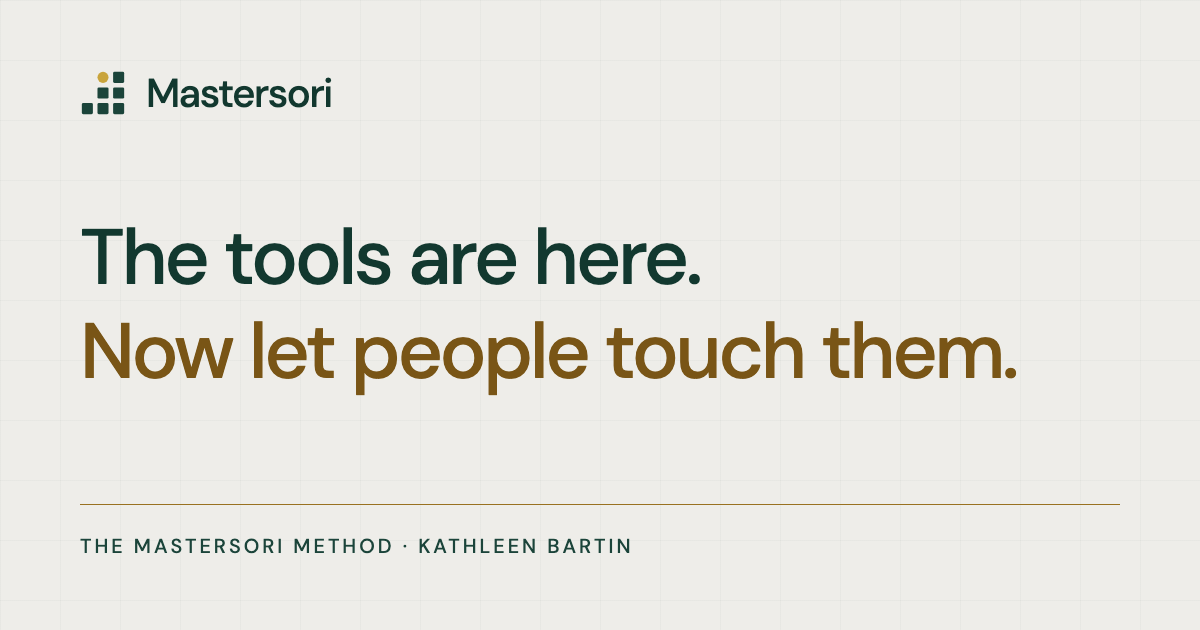
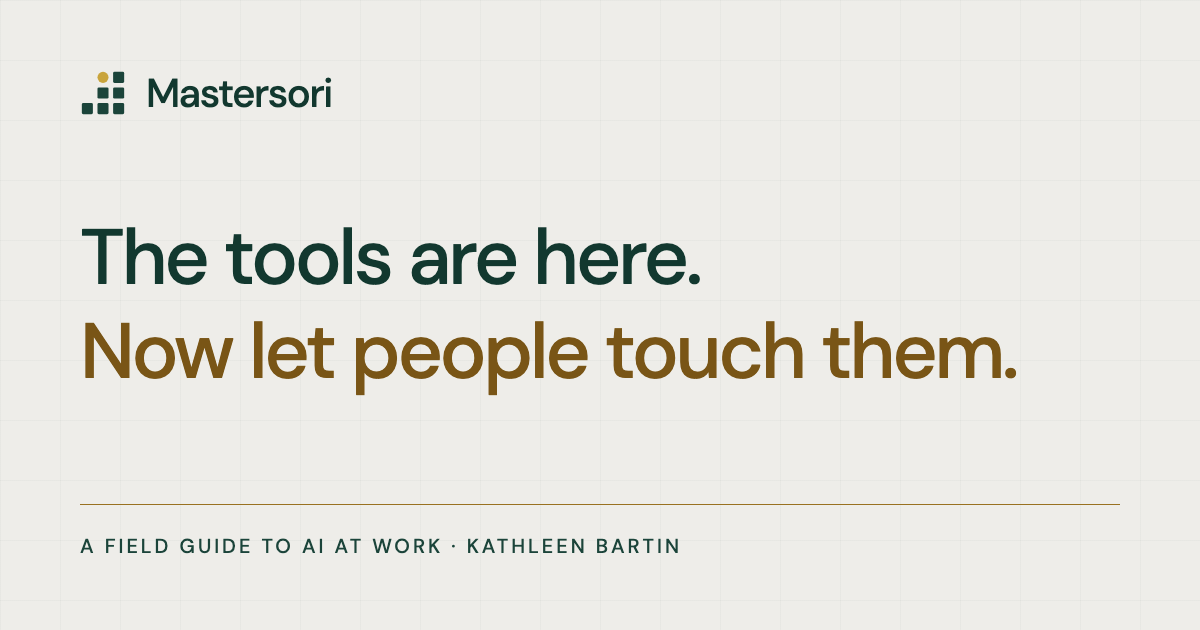
Launch pass B: eyebrow and share card, framework credit, safe first session, the operational no, named-hours rule

Changed region(s): [[0.0617, 0.8444, 0.5858, 0.8746]]

diff --git a/workbench.html b/workbench.html
@@ -79,7 +79,7 @@
 <div class="field"><label for="leadership">Are department heads ready to support the work?</label><select id="leadership"><option value="" selected>Choose an answer</option><option value="yes">Yes, with a shared direction and timeline</option><option value="no">Not yet, or support is mixed</option><option value="unknown">I don’t know</option></select></div>
 <div class="field"><label for="environment">Is the first-session environment ready?</label><select id="environment"><option value="" selected>Choose an answer</option><option value="yes">Yes, approved tools and connections tested</option><option value="no">Not yet, access or setup needs work</option><option value="unknown">I don’t know</option></select></div>
 <button class="outline-button" type="submit">Make my launch map →</button><p class="status form-status" role="status"></p></fieldset></form></div><aside class="result-panel" id="launch-result" aria-live="polite"><p class="eyebrow">A working document, not a grade</p><h3>The first step is<br>not always a class.</h3><p>Use the questions to find the earliest unfinished preparation. Your launch map will name three actions and a piece of evidence to look for.</p><div class="note"><p class="small">No score. No maturity label. No inference about the people on your team.</p></div><p class="small muted panel-foot">The map is assembled from the method using the choices you make. No AI model is called.</p></aside></div></section>
-<section id="panel-survey" role="tabpanel" aria-labelledby="tab-survey" tabindex="0" hidden><script type="application/json" id="survey-document">"# Mastersori: the day-one survey\n\nA proposed working template by Kathleen Bartin, Prodigal Paradigm LLC.\nFirst edition \u00b7 November 2026\n\n## The sponsor's answer\n\nBefore sending this survey, the sponsor completes and includes:\n\n1. What are we measuring, and why?\n\n   ____________________________________________\n\n2. Who will see named responses?\n\n   ____________________________________________\n\n3. Can these figures inform staffing decisions? (The method's position: they should not. Say yours.)\n\n   ____________________________________________\n\n4. When will identifiable responses be deleted?\n\n   ____________________________________________\n\nEstimates can be corrected by the person who gave them.\n\n## Before you send it\n\nUse an organization-approved survey channel. Explain the purpose, whether responses are identifiable, who may see them, and how long they will be retained. Do not collect confidential examples or employee-sensitive information unnecessarily.\n\n## Ten questions\n\n1. Have you used an AI tool for work? If yes, how often?\n\n2. Would you like to use AI in your work? Why or why not?\n\n3. Which AI tools have you tried, at work or elsewhere?\n\n4. What part of your work has AI helped with?\n\n5. Where has AI disappointed you, failed, or made more work?\n\n6. Which recurring task would you change? About how long does one instance take now, including checking, and how often do you do it? An estimate or 'not sure' is fine.\n\n7. What concerns would you want addressed before using AI here?\n\n8. What access, permissions, or support would help you begin?\n\n9. What would make a first AI session genuinely useful to you?\n\n10. If this AI stuff turns out to be the crazy cool thing that actually does make work better, what is that moonshot project?\n\n## The facilitator's note\n\nThe first nine questions take the temperature. The tenth plants a seed. Return to the moonshot after the first hands-on session. Treat pro, resistant, and already-enabled as working observations, not permanent labels for people. Meet department heads separately and compare the two maps.\n\n## Status\n\nThis is a starter template, not a validated assessment or the final wording of a previously administered survey.\n\nSource: https://prodigalparadigm.github.io/mastersori/workbench.html\n"</script><div class="tool-grid"><div><h2>The survey that plants a seed.</h2><p>A proposed ten-question template based on the method. Adapt the wording to your organization, and tell people how their answers will be used before you collect them.</p><p class="survey-actions"><a class="text-link download-survey" href="assets/mastersori-day-one-survey.md" download>Download the survey <svg viewBox="0 0 24 24" aria-hidden="true"><path d="M4 12h15m-6-6 6 6-6 6"/></svg></a><button class="plain-button copy-survey" type="button">Copy text</button><span class="status" role="status"></span></p><div class="note sponsor-block"><p class="small"><strong>Before sending this survey, the sponsor completes and includes:</strong></p><ol class="small"><li>What are we measuring, and why?</li><li>Who will see named responses?</li><li>Can these figures inform staffing decisions? (The method’s position: they should not. Say yours.)</li><li>When will identifiable responses be deleted?</li></ol><p class="small">Estimates can be corrected by the person who gave them.</p></div><ol class="survey-list"><li>Have you used an AI tool for work? If yes, how often?</li><li>Would you like to use AI in your work? Why or why not?</li><li>Which AI tools have you tried, at work or elsewhere?</li><li>What part of your work has AI helped with?</li><li>Where has AI disappointed you, failed, or made more work?</li><li>Which recurring task would you change? About how long does one instance take now, including checking, and how often do you do it? An estimate or 'not sure' is fine.</li><li>What concerns would you want addressed before using AI here?</li><li>What access, permissions, or support would help you begin?</li><li>What would make a first AI session genuinely useful to you?</li><li>If this AI stuff turns out to be the crazy cool thing that actually does make work better, what is that moonshot project?</li></ol></div><aside class="result-panel"><p class="eyebrow">Take it into the organization</p><h3>Nine take the temperature.<br>One opens a door.</h3><p>The moonshot is not a throwaway closer. Return to it after the first session, when people have made something useful and can imagine more.</p><p class="survey-actions"><a class="text-link download-survey" href="assets/mastersori-day-one-survey.md" download>Download the survey <svg viewBox="0 0 24 24" aria-hidden="true"><path d="M4 12h15m-6-6 6 6-6 6"/></svg></a><button class="plain-button copy-survey" type="button">Copy text</button><span class="status" role="status"></span></p><div class="note"><p class="small">This page does not collect responses. Use an organization-approved survey channel, explain whether answers are identifiable, and agree who may see them.</p></div><p class="small muted panel-foot">Markdown document · Editable · No sign-up</p></aside></div></section>
+<section id="panel-survey" role="tabpanel" aria-labelledby="tab-survey" tabindex="0" hidden><script type="application/json" id="survey-document">"# Mastersori: the day-one survey\n\nA proposed working template by Kathleen Bartin, Prodigal Paradigm LLC.\nFirst edition \u00b7 November 2026\n\n## The sponsor's answer\n\nBefore sending this survey, the sponsor completes and includes:\n\n1. What are we measuring, and why?\n\n   ____________________________________________\n\n2. Who will see named responses?\n\n   ____________________________________________\n\n3. Can these figures inform staffing decisions? (The method's position: they should not. Say yours.)\n\n   ____________________________________________\n\n4. When will identifiable responses be deleted?\n\n   ____________________________________________\n\nEstimates can be corrected by the person who gave them.\n\nIf the sponsor cannot rule out using identifiable time estimates for staffing decisions, I do not collect named hours for this exercise. A person may keep their own estimate private or skip the exercise.\n\n## Before you send it\n\nUse an organization-approved survey channel. Explain the purpose, whether responses are identifiable, who may see them, and how long they will be retained. Do not collect confidential examples or employee-sensitive information unnecessarily.\n\n## Ten questions\n\n1. Have you used an AI tool for work? If yes, how often?\n\n2. Would you like to use AI in your work? Why or why not?\n\n3. Which AI tools have you tried, at work or elsewhere?\n\n4. What part of your work has AI helped with?\n\n5. Where has AI disappointed you, failed, or made more work?\n\n6. Which recurring task would you change? About how long does one instance take now, including checking, and how often do you do it? An estimate or 'not sure' is fine.\n\n7. What concerns would you want addressed before using AI here?\n\n8. What access, permissions, or support would help you begin?\n\n9. What would make a first AI session genuinely useful to you?\n\n10. If this AI stuff turns out to be the crazy cool thing that actually does make work better, what is that moonshot project?\n\n## The facilitator's note\n\nThe first nine questions take the temperature. The tenth plants a seed. Return to the moonshot after the first hands-on session. Treat pro, resistant, and already-enabled as working observations, not permanent labels for people. Meet department heads separately and compare the two maps.\n\n## Status\n\nThis is a starter template, not a validated assessment or the final wording of a previously administered survey.\n\nSource: https://prodigalparadigm.github.io/mastersori/workbench.html\n"</script><div class="tool-grid"><div><h2>The survey that plants a seed.</h2><p>A proposed ten-question template based on the method. Adapt the wording to your organization, and tell people how their answers will be used before you collect them.</p><p class="survey-actions"><a class="text-link download-survey" href="assets/mastersori-day-one-survey.md" download>Download the survey <svg viewBox="0 0 24 24" aria-hidden="true"><path d="M4 12h15m-6-6 6 6-6 6"/></svg></a><button class="plain-button copy-survey" type="button">Copy text</button><span class="status" role="status"></span></p><div class="note sponsor-block"><p class="small"><strong>Before sending this survey, the sponsor completes and includes:</strong></p><ol class="small"><li>What are we measuring, and why?</li><li>Who will see named responses?</li><li>Can these figures inform staffing decisions? (The method’s position: they should not. Say yours.)</li><li>When will identifiable responses be deleted?</li></ol><p class="small">Estimates can be corrected by the person who gave them.</p><p class="small">If the sponsor cannot rule out using identifiable time estimates for staffing decisions, I do not collect named hours for this exercise. A person may keep their own estimate private or skip the exercise.</p></div><ol class="survey-list"><li>Have you used an AI tool for work? If yes, how often?</li><li>Would you like to use AI in your work? Why or why not?</li><li>Which AI tools have you tried, at work or elsewhere?</li><li>What part of your work has AI helped with?</li><li>Where has AI disappointed you, failed, or made more work?</li><li>Which recurring task would you change? About how long does one instance take now, including checking, and how often do you do it? An estimate or 'not sure' is fine.</li><li>What concerns would you want addressed before using AI here?</li><li>What access, permissions, or support would help you begin?</li><li>What would make a first AI session genuinely useful to you?</li><li>If this AI stuff turns out to be the crazy cool thing that actually does make work better, what is that moonshot project?</li></ol></div><aside class="result-panel"><p class="eyebrow">Take it into the organization</p><h3>Nine take the temperature.<br>One opens a door.</h3><p>The moonshot is not a throwaway closer. Return to it after the first session, when people have made something useful and can imagine more.</p><p class="survey-actions"><a class="text-link download-survey" href="assets/mastersori-day-one-survey.md" download>Download the survey <svg viewBox="0 0 24 24" aria-hidden="true"><path d="M4 12h15m-6-6 6 6-6 6"/></svg></a><button class="plain-button copy-survey" type="button">Copy text</button><span class="status" role="status"></span></p><div class="note"><p class="small">This page does not collect responses. Use an organization-approved survey channel, explain whether answers are identifiable, and agree who may see them.</p></div><p class="small muted panel-foot">Markdown document · Editable · No sign-up</p></aside></div></section>
 <section id="panel-story" role="tabpanel" aria-labelledby="tab-story" tabindex="0" hidden><div class="tool-grid"><div><h2>Write it like a short story.</h2><p>Start on paper if you can. When you are ready, use this space to turn the story into a working brief. Keep confidential information out of practice exercises.</p><form id="story-form" onsubmit="return false"><fieldset class="needs-script" disabled><div class="field"><label for="story-title">Give the moonshot a working title</label><input id="story-title" maxlength="150" placeholder="The project that has been waiting"></div><div class="field"><label for="story-beginning">The beginning: where are you now?</label><span class="hint" id="hint-beginning">Who is doing the work? What is difficult? What do they have to work with?</span><textarea id="story-beginning" aria-describedby="hint-beginning" maxlength="10000" placeholder="Today, the person doing this work…"></textarea></div><div class="field"><label for="story-middle">The middle: walk the path.</label><span class="hint" id="hint-middle">Name the steps, the decisions, the inputs, and the places a human must check.</span><textarea id="story-middle" aria-describedby="hint-middle" maxlength="15000" placeholder="First… Then… When this happens…"></textarea></div><div class="field"><label for="story-end">The end: what does accomplished look like?</label><span class="hint" id="hint-end">Describe an observable result, not just “better” or “faster.”</span><textarea id="story-end" aria-describedby="hint-end" maxlength="10000" placeholder="I will know this worked when…"></textarea></div><div class="field"><label for="story-test">The reader test: what could be misunderstood?</label><span class="hint" id="hint-test">Would someone who does not know the story get to the same place?</span><textarea id="story-test" aria-describedby="hint-test" maxlength="10000" placeholder="The missing detail, exception, or assumption is…"></textarea></div><button class="outline-button" type="submit">Make my story brief →</button></fieldset></form></div><aside class="result-panel" id="story-result" aria-live="polite"><p class="eyebrow">Thinking before prompting</p><h3>Beginning.<br>Middle.<br>End.</h3><p>You are giving an agent a story to follow from point A to point B. The detail is not extra. The detail is the instruction.</p><div class="note"><p class="small">This tool formats what you write. It does not validate feasibility, complete missing details, or send your story to an AI.</p></div><p class="small muted panel-foot">You can export an unfinished draft. Unwritten sections stay visibly marked as open questions.</p></aside></div></section></main>
 <footer class="site-footer"><div class="footer-left"><img src="assets/logomark.svg" width="28" height="28" alt="" aria-hidden="true"><p>A method by Kathleen Bartin.<br>Written in AI-human collaboration. We stand by it.<br>Prodigal Paradigm LLC · First edition, 2026</p></div><nav class="footer-links" aria-label="Footer navigation"><a href="https://www.prodigalparadigm.com">The parent practice</a><a href="mailto:kathleen@prodigalparadigm.com?subject=Mastersori%20conversation">Get in touch</a><a href="#top">Back to top ↑</a></nav></footer><!-- LOOKS: the one-line house view-counter beacon goes here when the rollout reaches this site. No other analytics on this site. -->
 </body></html>

diff --git a/method.html b/method.html
@@ -161,11 +161,10 @@
 <p>It applies upward as well. Don’t-touch runs deepest at the top, where delegation has made it invisible. Seniority is not fluency.</p>
 
 <h2 id="taught">What gets taught.</h2>
-<p>The curriculum underneath the arc is not mine. It is Anthropic’s AI fluency framework - the four Ds - developed with Professors Rick Dakan and Joseph Feller. <a class="sources-inline" href="https://academy.claude.com/courses/ai-fluency-framework-foundations/the-4d-framework">The 4D framework, Anthropic’s AI Fluency course</a>. In my room it comes out in plain words, as three moves:</p>
+<p>The curriculum underneath the arc is not mine. I draw on the AI Fluency Framework by Rick Dakan and Joseph Feller. They developed the course with Anthropic. The classroom examples and the three moves below are mine. <a class="sources-inline" href="https://aifluencyframework.org/">The AI Fluency Framework</a> · <a class="sources-inline" href="https://academy.claude.com/courses/ai-fluency-framework-foundations/the-4d-framework">The 4D framework course</a>. In my room it comes out in plain words, as three moves:</p>
 <p><strong>Delegation.</strong> “Examine your workflow - where does AI slot in?” This is the moonshot question and the ladder’s third rung, asked before anyone has heard the word delegation.</p>
 <p><strong>Description.</strong> Learn to communicate clearly enough to deploy AI. The homework on paper - a story that gets your agent from point A to point B - is this discipline without the jargon.</p>
 <p><strong>Discernment and diligence.</strong> “Review your work and be ready to claim it.” I teach these as one move, because the review and the ownership are the same act. If you are not ready to stand by the output, you are not done reviewing it.</p>
-<p>The framework is Anthropic’s. The plain words and the classroom are mine.</p>
 
 <section class="roi-block" id="roi"><h2>The ROI question.</h2>
 <p class="section-lede"><em>What is the benefit of a good AI deployment - give me the figures.</em></p>
@@ -205,9 +204,8 @@
 <p>Where a department’s resistance is about the rules, strengthen the rules. Treat the objection as a list of things to get right. Those departments more than likely have valid concerns. Come prepared to talk and to take notes.</p>
 <p>There are four things the organization has to know about itself. None of them is about technology.</p>
 <ol><li>Does our data go straight into AI platforms, or through a layer in between?</li><li>Is AI-written content for outside audiences acceptable, or fundamentally opposed?</li><li>Is the first goal to take administrative work off people, or something more?</li><li>Is there an acceptable-use policy that everyone understands: what goes in, what comes out, and who is responsible?</li></ol>
-<p>The mechanism underneath: the governance no and the personal no are mostly the same no. The personal hides behind governance.</p>
-<p>Answer the stated objection fully and the hiding place is gone. What remains is visibly personal, and that can be reached.</p>
-<p>And some of what remains is neither hiding nor fear. A person can understand the rules and still judge a use not worth doing. That no gets recorded and honored - the same as the one in discipline C.</p>
+<p>Answer the objection the person actually raised. If the answer is still no, I don’t need a different reason.</p>
+<p>A person can understand the rules and still judge a use not worth doing. That no gets recorded and honored - the same as the one in discipline C.</p>
 </div></details>
 
 <details class="stage m-prepare" id="timeline" open><summary><span class="stage-number">04</span><span class="stage-name">The timeline.</span><span class="symbol" aria-hidden="true"></span></summary><div class="stage-content">
@@ -233,11 +231,13 @@
 
 <details class="stage m-begin" id="session" open><summary><span class="stage-number">06</span><span class="stage-name">Wheels up.</span><span class="symbol" aria-hidden="true"></span></summary><div class="stage-content">
 <p class="stage-sub">Session one.</p>
-<p>Everyone gets the same setup, without exception: the same software on every desktop, the connectors up, the same settings, memory on. A connector is the approved way the tool reads information from another application. This part is not optional. Identical doorframes are what allow every door to be different.</p>
+<p>Everyone gets an approved place to make a first artifact. In my engagement, we used mail and calendar. In your room, start with a practice inbox unless the data owner has approved that use of real mail. Use the memory and retention settings your organization has approved; if that decision is open, leave memory off. No message is sent and no calendar entry is changed without a person approving it.</p>
+<p>This part is not optional. Identical doorframes are what allow every door to be different.</p>
 <p>If that sounds at odds with opting in, it is not. Everyone gets the same tools, and everyone uses them in their own way. The installation is uniform. The use is voluntary.</p>
 <p>The sequence:</p>
 <p class="quote">“Open. Make a project. Put a chat in the project. Test the connectors with a quick build. Make that first artifact. Be amazed.”</p>
-<p>The standard first build is <strong>My EA</strong>: mail and calendar, with the tool sorting through the person’s own real inbox.</p>
+<p>A connector is the approved way the tool reads information from another application.</p>
+<p>The standard first build is <strong>My EA</strong>: mail and calendar.</p>
 <p>Misfires are part of the lesson. Connectors will misfire, and each misfire is a chance to teach troubleshooting during the session. It broke, you touched it, you fixed it, and nothing bad happened.</p>
 </div></details>
 
@@ -299,6 +299,7 @@
 <p>Measurement is key. It starts at step one with the baseline rule and it never stops.</p>
 <p>Every interaction is data: emails, Zoom calls, direct messages, handwritten notes uploaded. People used to compile all of that by hand. Now they do not. A second set of eyes, human and AI. The way I measure is the method itself, demonstrated.</p>
 <p>Records someone agreed to contribute, not conversations that merely exist.</p>
+<p>If the sponsor cannot rule out using identifiable time estimates for staffing decisions, I do not collect named hours for this exercise. A person may keep their own estimate private or skip the exercise.</p>
 <p><strong>What happened in the field.</strong> In the engagement behind the figures on this site, the sponsor asked at week ten what the work was worth. I went back through every weekly update I had sent and priced each deliverable myself, counting only what I had already reported. That produced $194.5K-$387.5K in delivered value by week ten. It was reconstructed, by me, looking back. My note taking saved me. That is not good enough.</p>
 <p>Two rules came out of it.</p>
 <ol><li><strong>Keep the ledger from week one</strong>, with each department, so the value question is answered as the work proceeds.</li><li><strong>The pricing firewall.</strong> What I tell the sponsor: “I am not reporting dollar amounts - I will give you time saved and the person where it was saved - YOU compute the dollar amount.” I certify the facts: the hours, and whose they were. The organization applies its own rates to its own people. I never hold the multiplier, so I cannot inflate the number.</li></ol>
@@ -314,6 +315,7 @@
 <p>If the silence continues: a desk visit, a phone call, a Zoom. Each step moves toward the more human channel.</p>
 <p><strong>The calibrated gift.</strong> Used sparingly, and only with people I know will receive it well, I build something for the stalled person and post it publicly: “hey, I'm saying hi with my Claude build for you.”</p>
 <p><strong>The no.</strong> One person received the gift and a visit in person, and still did not want to do it. It did not sing to him, and I left him be.</p>
+<p>Silence is not permission. I can offer help privately. I don’t post a build about someone without asking them first. If they decline, I stop.</p>
 <p>Opt-in that cannot be declined is a mandate with better manners. The opt-in rate is credible because it is not 100 percent.</p>
 <p><strong>The responsiveness rule.</strong> This work demands a fast reply, even when that means answering at 10 PM. For the people who are scared, the 10 PM reply is the intervention.</p>
 </div></details>

diff --git a/index.html b/index.html
@@ -89,7 +89,7 @@
 <body id="top"><a class="skip" href="#main">Skip to content</a><header class="site-header"><a class="brand" href="index.html" aria-label="Mastersori home"><img src="assets/logomark.svg" width="29" height="29" alt=""><span class="brand-name">Mastersori</span></a><button class="menu-button" aria-expanded="false" aria-controls="main-nav" type="button">Menu</button><nav class="nav" id="main-nav" aria-label="Main navigation"><a href="method.html">The method</a><a href="argument.html">The argument</a><a href="dedication.html">The name</a><a href="workbench.html">Open the workbench</a></nav></header>
 
 <main id="main">
-<section class="hero"><p class="eyebrow">The Mastersori Method · AI enablement in a box</p><h1>The tools are here.<span class="turn">Now let people touch them.</span></h1><p class="lede">Not another AI training. A method for preparing the organization, removing the fear, and helping people build work of their own.</p><div class="hero-actions"><a class="text-link" href="workbench.html">Make a launch map<svg viewBox="0 0 24 24" aria-hidden="true"><path d="M4 12h15m-6-6 6 6-6 6"/></svg></a><a class="text-link" href="method.html">Read the method<svg viewBox="0 0 24 24" aria-hidden="true"><path d="M4 12h15m-6-6 6 6-6 6"/></svg></a></div><p class="hero-foot">A prepared environment. A self-directed learner. A real piece of work.</p></section>
+<section class="hero"><p class="eyebrow">The Mastersori Method · A field guide to AI at work</p><h1>The tools are here.<span class="turn">Now let people touch them.</span></h1><p class="lede">Not another AI training. A method for preparing the organization, removing the fear, and helping people build work of their own.</p><div class="hero-actions"><a class="text-link" href="workbench.html">Make a launch map<svg viewBox="0 0 24 24" aria-hidden="true"><path d="M4 12h15m-6-6 6 6-6 6"/></svg></a><a class="text-link" href="method.html">Read the method<svg viewBox="0 0 24 24" aria-hidden="true"><path d="M4 12h15m-6-6 6 6-6 6"/></svg></a></div><p class="hero-foot">A prepared environment. A self-directed learner. A real piece of work.</p></section>
 <div class="wrap">
 <section class="section intro-grid"><div><p class="eyebrow">The un-training</p><h2>First, undo<br>“don’t touch.”</h2></div><div class="prose"><p>For thirty years, those of us in IT taught people not to touch. Stay in the browser. Stay in the inbox. If something breaks, call someone.</p><p>Then AI arrived and asked them to do the opposite: explore, connect, try, break, fix, and build. The problem is not simply that people need a better tutorial. It is that they learned the old lesson very well.</p><p class="quote">Enablement is not teaching a tool.<br>It is giving people room to act.</p><p class="small muted">Mastersori is my method for doing that deliberately.<br>Kathleen Bartin · Prodigal Paradigm</p><p><a class="text-link" href="argument.html">Read the argument<svg viewBox="0 0 24 24" aria-hidden="true"><path d="M4 12h15m-6-6 6 6-6 6"/></svg></a></p></div></section>
 <section class="section"><div class="section-top"><div><p class="eyebrow">Ten steps. One change in posture.</p><h2>From permission to possibility.</h2></div><a class="text-link" href="method.html">Inside the method<svg viewBox="0 0 24 24" aria-hidden="true"><path d="M4 12h15m-6-6 6 6-6 6"/></svg></a></div><div class="movements"><article class="movement m-prepare"><span class="number">01 / Prepare</span><h3><a class="card-link" href="method.html#survey">Make the ground safe.</a></h3><p>Listen across the organization. Map the people and departments. Turn valid objections into usable governance, give the ambition a timeline, and win the department heads before any classroom.</p><p class="small">The survey · The sort · Governance first · The timeline · The heads</p></article><article class="movement m-begin"><span class="number">02 / Begin</span><h3><a class="card-link" href="method.html#session">Make it personal.</a></h3><p>Set everyone up the same way, then let them build something useful from their own real work in the first session. Send them home with the project they thought was out of reach.</p><p class="small">Wheels up · The moonshot homework</p></article><article class="movement m-continue"><span class="number">03 / Continue</span><h3><a class="card-link" href="method.html#ladder">Make it their own.</a></h3><p>Give every person a rung to stand on. Find the one who is ahead and wants to share it. Then leave in a way that keeps people wired to each other.</p><p class="small">The ladder · The champion · The leaving</p></article></div><p class="small muted running-line">Running the whole time: the replaceable talk, measurement and the ledger, the intervention and the no. And a list of nine things that never work.</p></section>

diff --git a/assets/mastersori-day-one-survey.md b/assets/mastersori-day-one-survey.md
@@ -25,6 +25,8 @@ Before sending this survey, the sponsor completes and includes:
 
 Estimates can be corrected by the person who gave them.
 
+If the sponsor cannot rule out using identifiable time estimates for staffing decisions, I do not collect named hours for this exercise. A person may keep their own estimate private or skip the exercise.
+
 ## Before you send it
 
 Use an organization-approved survey channel. Explain the purpose, whether responses are identifiable, who may see them, and how long they will be retained. Do not collect confidential examples or employee-sensitive information unnecessarily.
